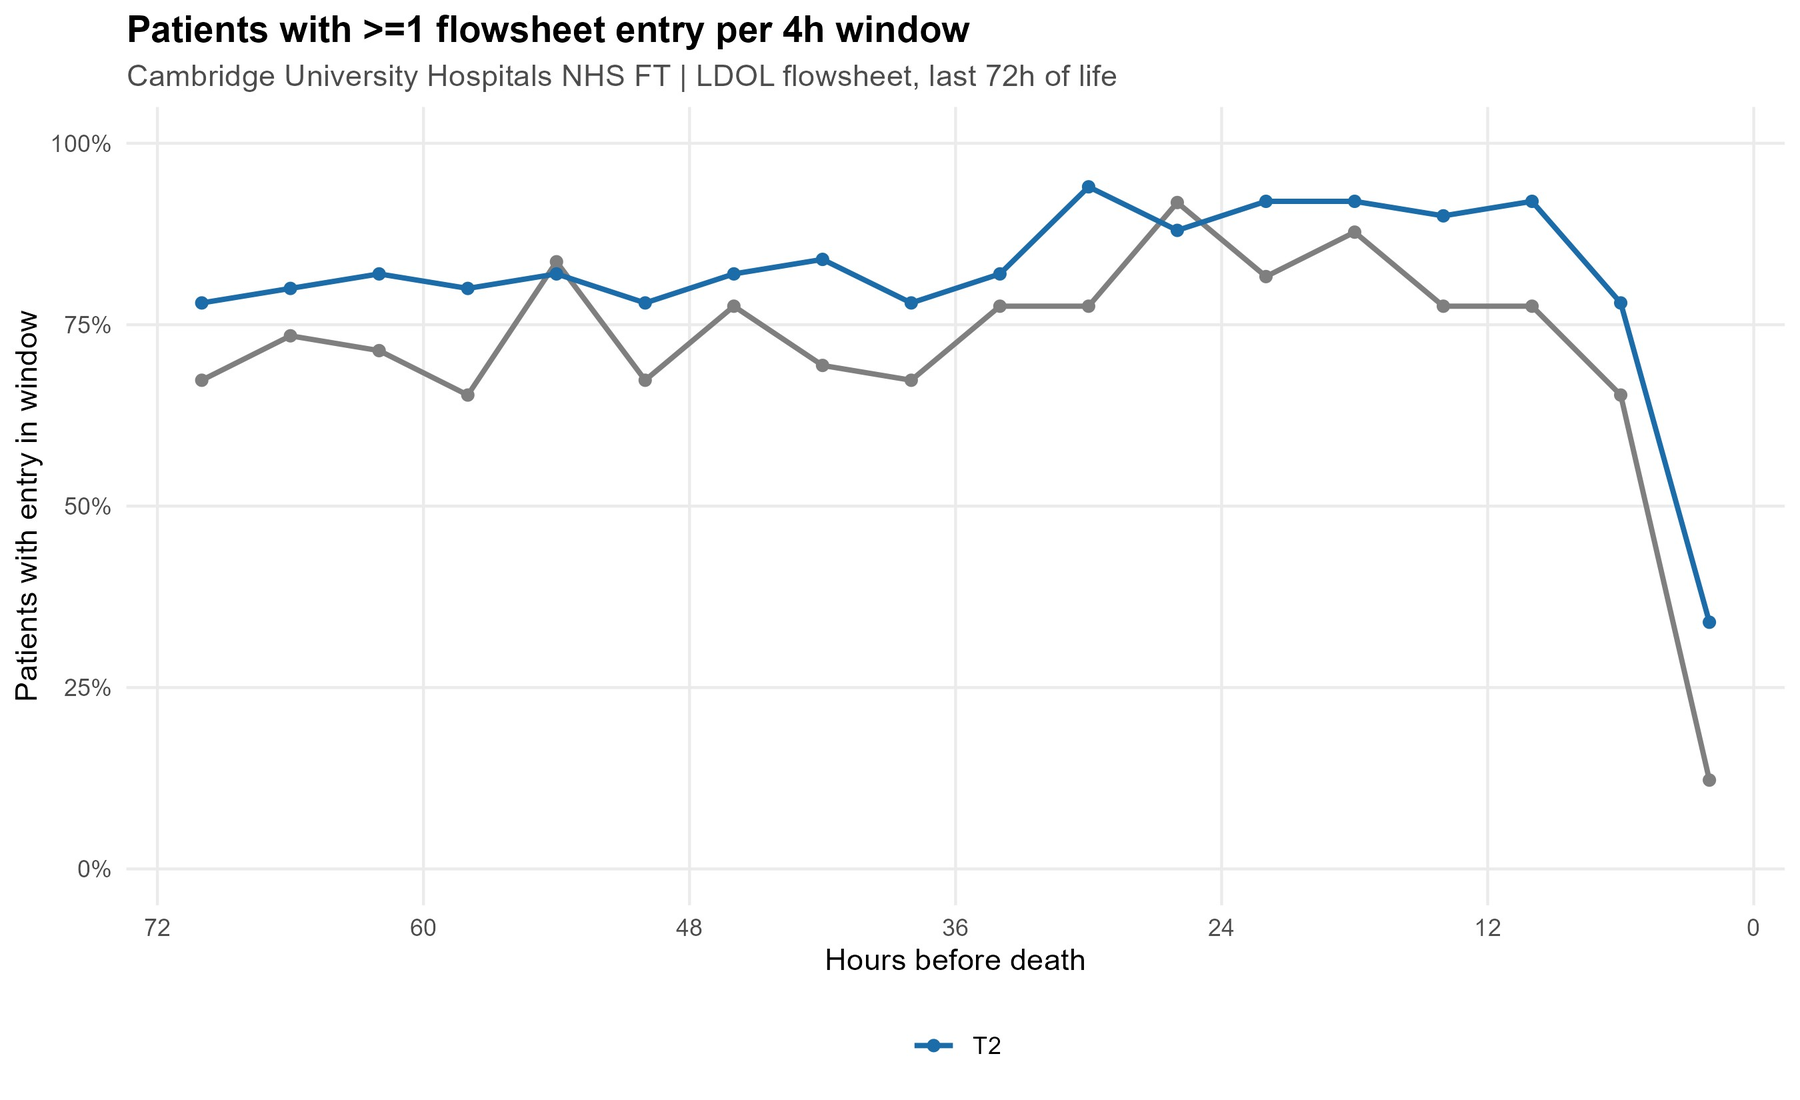
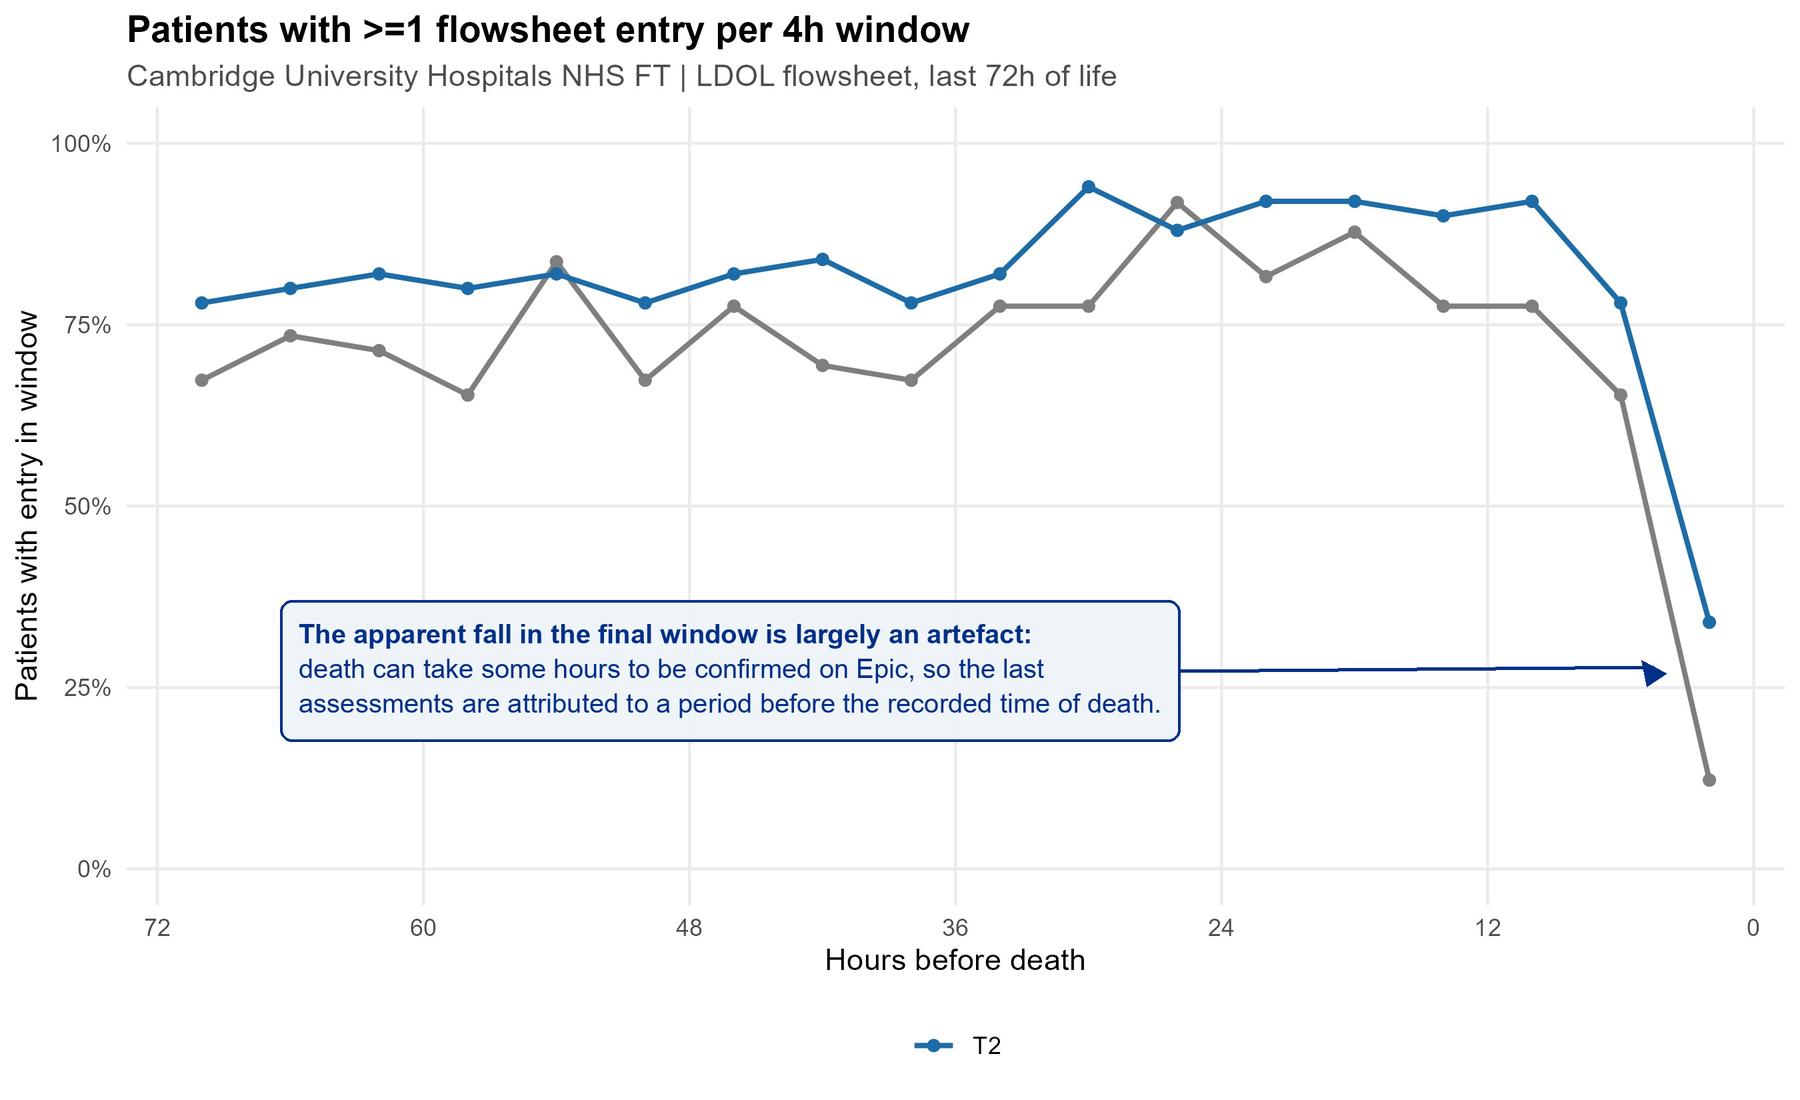
5045: annotate final-hours artefact on coverage chart
Claude-Session: https://claude.ai/code/session_012Sc76s7z3r3ek68UsvzYeg

Changed region(s): [[0.1556, 0.5564, 0.6533, 0.68], [0.6533, 0.5873, 0.9333, 0.6182]]

diff --git a/5045/index.html b/5045/index.html
@@ -43,11 +43,11 @@ footer{color:var(--muted);font-size:.85rem;border-top:1px solid var(--rule);padd
       <tr><td>Identified pain acted on within 4 hours</td><td class="num">100%</td><td class="num gap">64% (49/77 entries)</td></tr>
     </tbody>
   </table></div>
-  <p class="note">The final-hours gaps may be partly methodological: the analysis uses the discharge date and time as the time of death, which can sit later than the actual death and so shorten the apparent final window. The six-month re-audit will use the recorded time of death.</p>
+  <p class="note">The final-hours figures are largely a quirk of the data rather than a care gap: death can take some hours to be confirmed on Epic, and the analysis uses that recorded time, so the last assessments are attributed to a period before the recorded death. The six-month re-audit will use the observed time of death.</p>
 
   <h2>Charts from the audit report</h2>
   <figure><img src="ldol_domains_50pairs.png" alt="Domain documentation approaching death, T2 versus matched controls"><figcaption>Each comfort domain documented in the last 72, 24 and 6 hours, and the proportion with ten or more entries, T2 versus matched controls.</figcaption></figure>
-  <figure><img src="ldol_4h_coverage_50pairs.png" alt="Patients with at least one flowsheet entry per four-hour window"><figcaption>Patients with at least one flowsheet entry in each four-hour window across the last 72 hours. T2 (blue) stays above controls (grey), and both fall in the final hours.</figcaption></figure>
+  <figure><img src="ldol_4h_coverage_50pairs.png" alt="Patients with at least one flowsheet entry per four-hour window"><figcaption>Patients with at least one flowsheet entry in each four-hour window across the last 72 hours. T2 (blue) stays above controls (grey). The fall in the final window is largely the Epic death-confirmation artefact described above.</figcaption></figure>
   <figure><img src="ldol_symptom_acted_upon_50pairs.png" alt="Was an identified symptom acted upon?"><figcaption>Positive symptom entries with an intervention documented within four hours. Pain lags on both wards (T2 64%, controls 26%); agitation and breathing are well actioned on both.</figcaption></figure>
   <figure><img src="ldol_no_assessment_by_day_50pairs.png" alt="Patients with no symptom assessment, by day preceding death"><figcaption>Patients with no assessment in a domain on each of the last three days. On T2 no patient went through the final 24 hours without an agitation or respiratory assessment. Chart labels show 49 controls, the count at the report snapshot; the final matched set is 50.</figcaption></figure>
 
